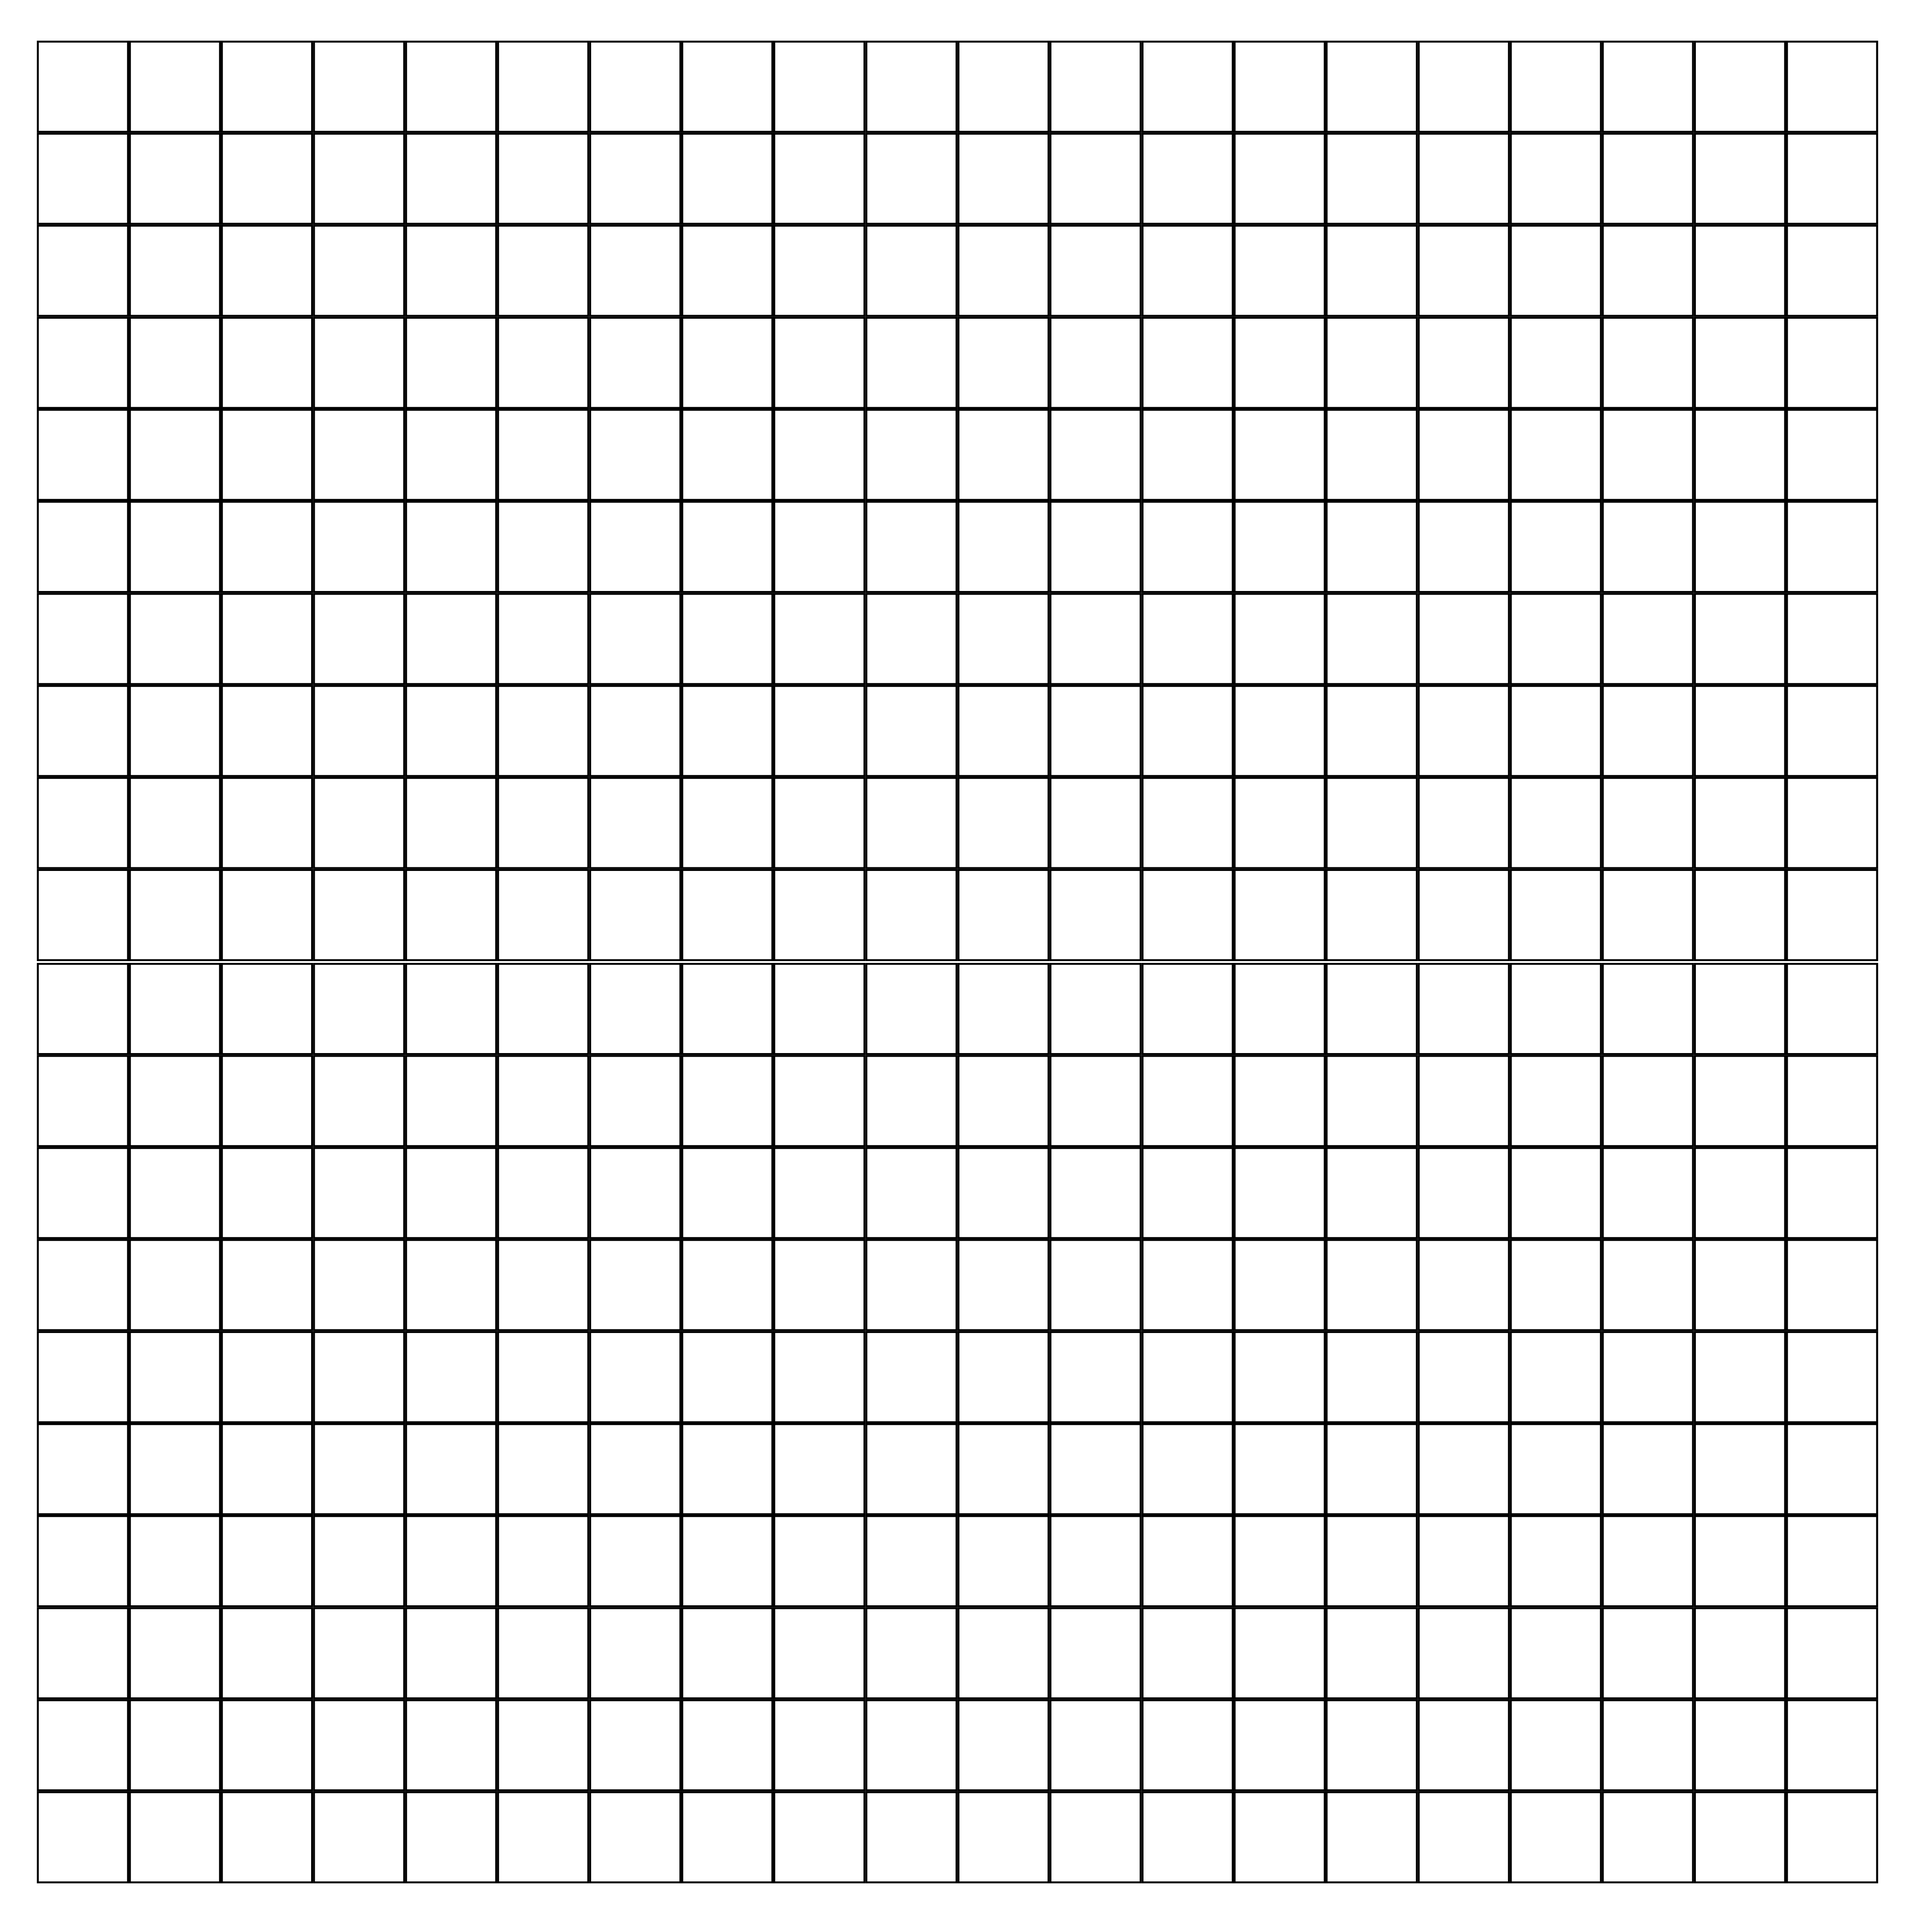
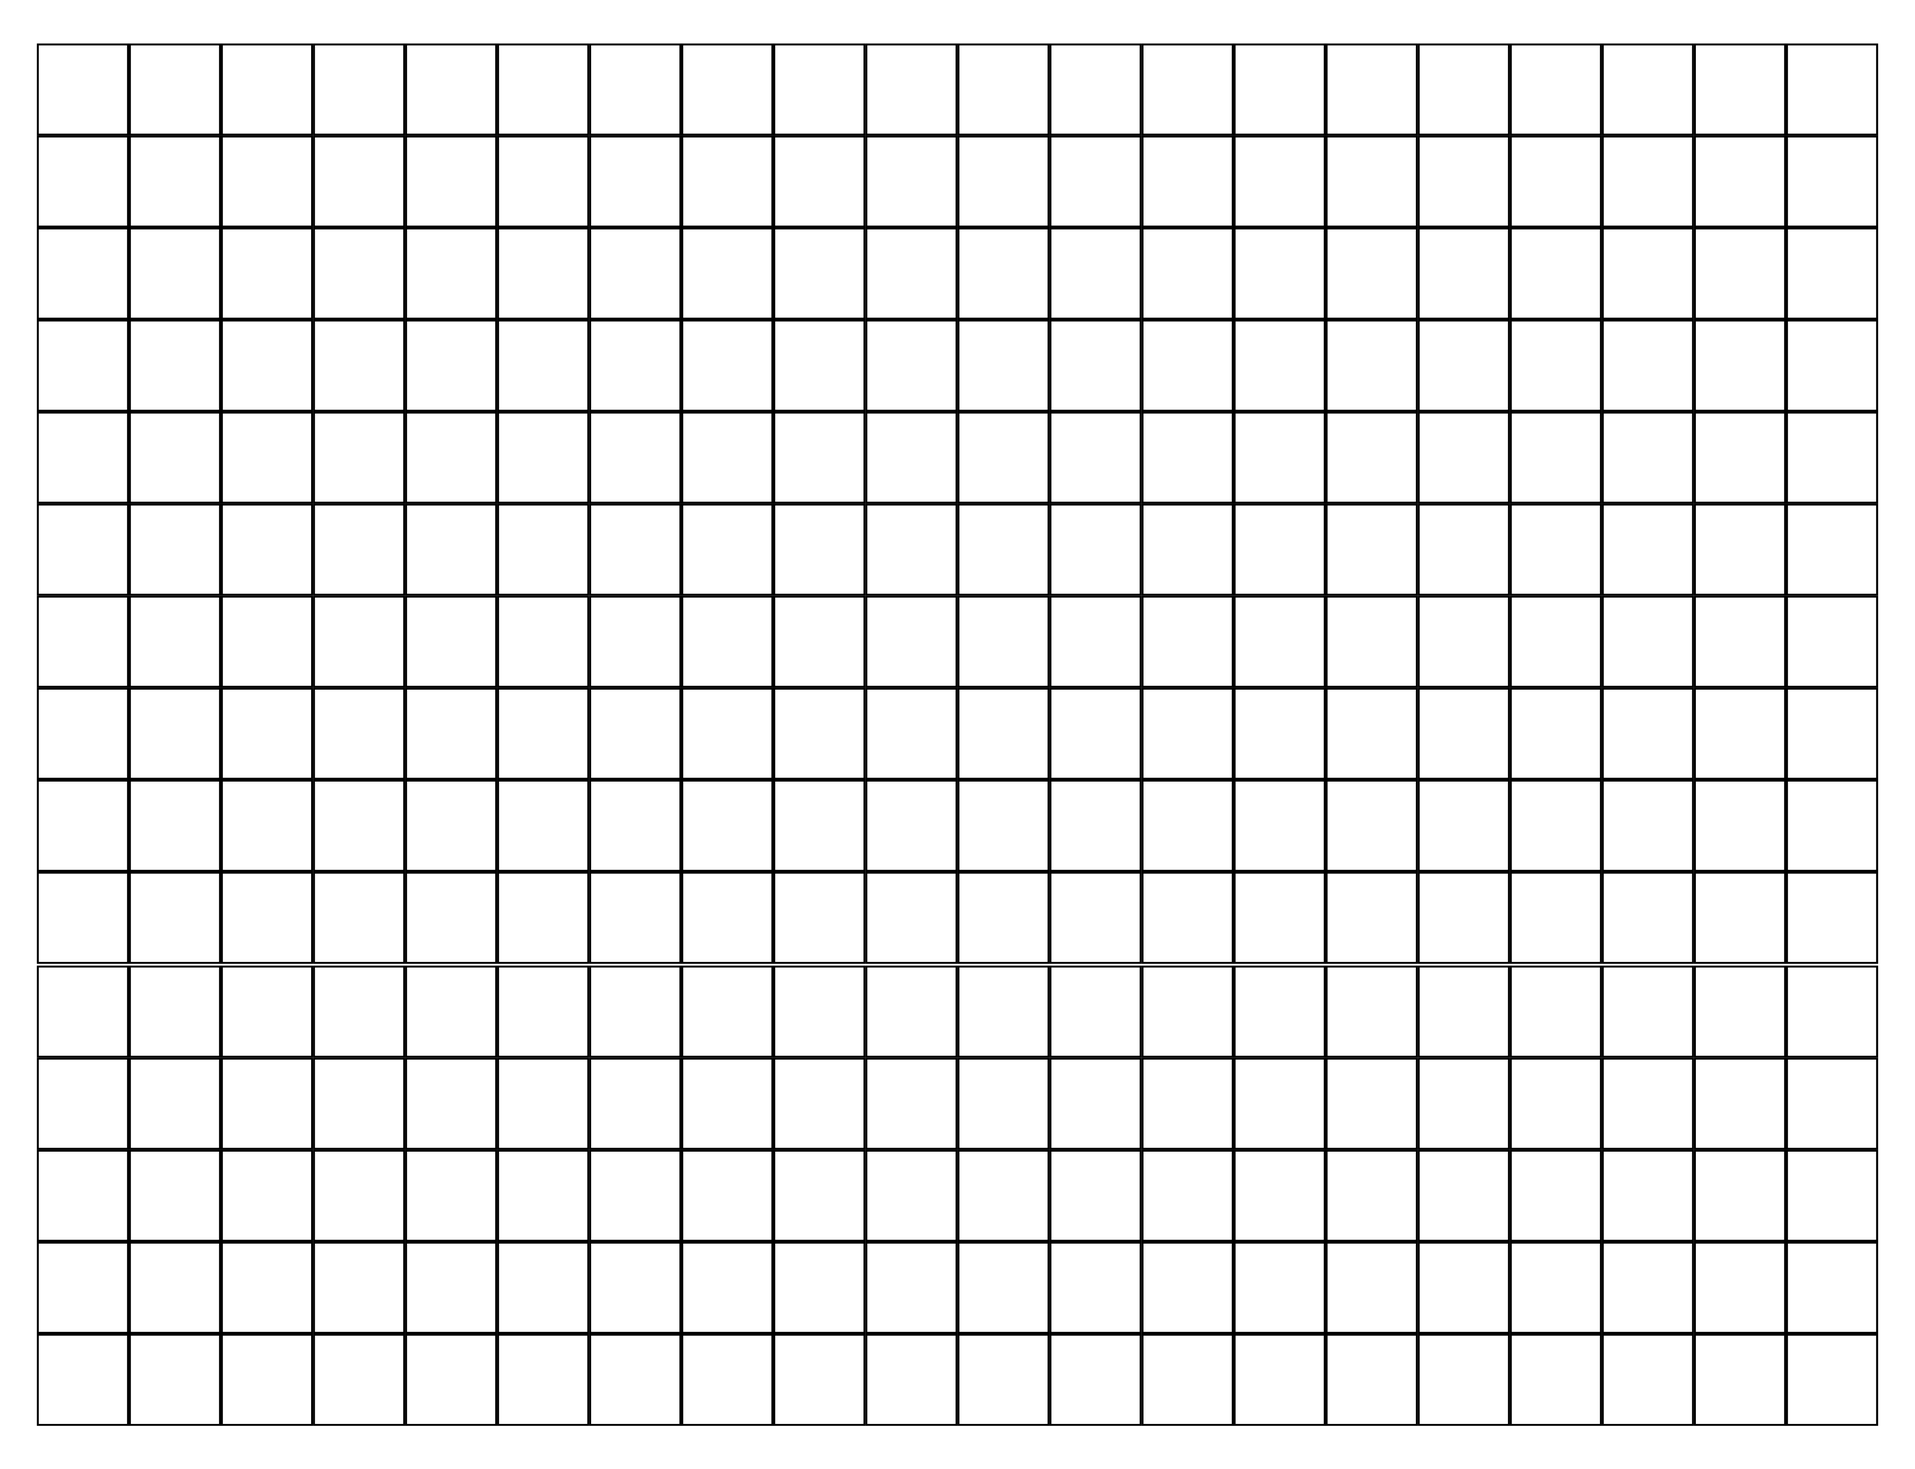
Update README.md. Update img.

diff --git a/README.md b/README.md
@@ -41,7 +41,7 @@ Create Angular Component with P5.JS element.
 
     <app-human-computer></app-human-computer>
 
-Add 300 components in the following 20 by 20 grid formation.
+Add 300 components in the following 20 by 15 grid formation.
 
 ![grid](img/grid-01.png)
 
@@ -71,7 +71,6 @@ human-computer.component.css
 ### Graphic Performance
 
 ![gpu](img/gpu-01.png)
-
 
 ## Link
 
